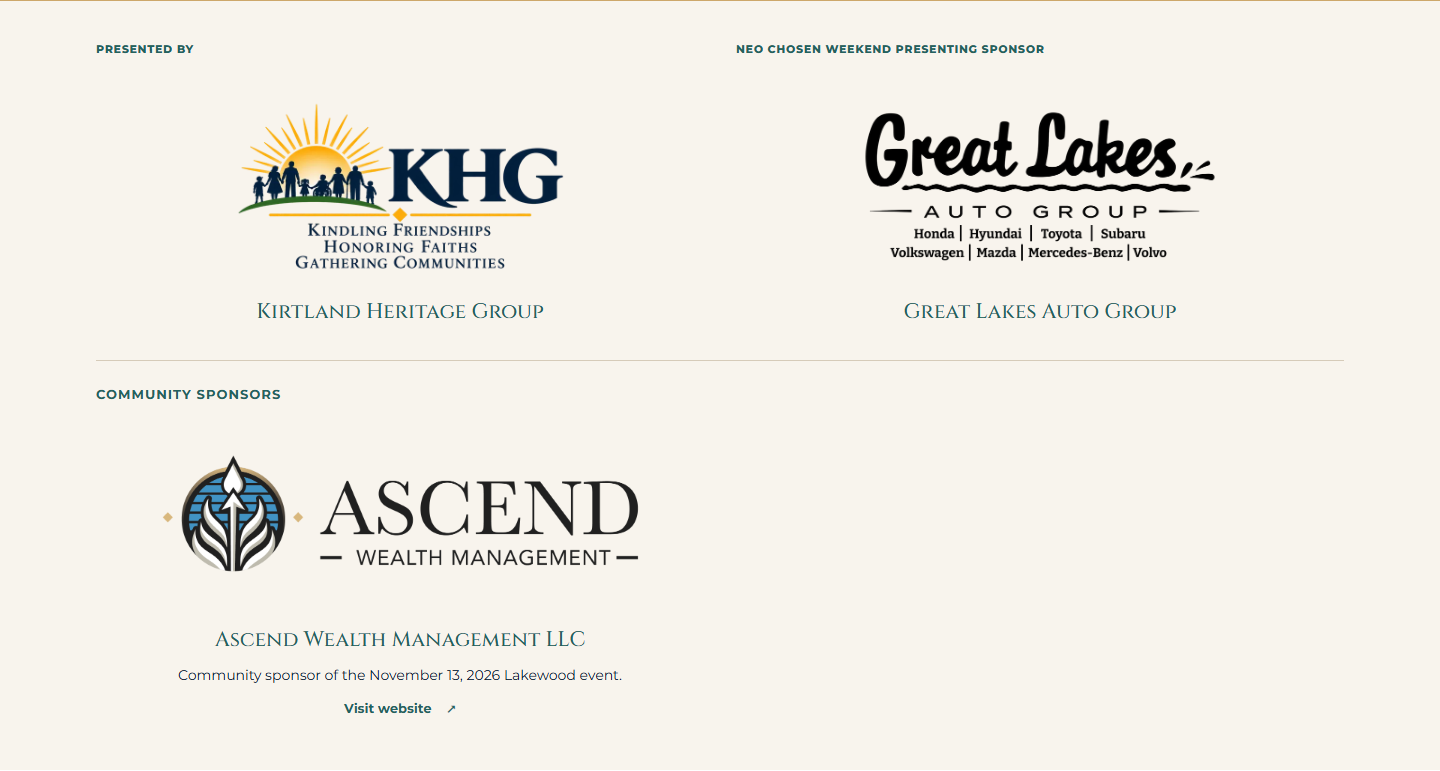
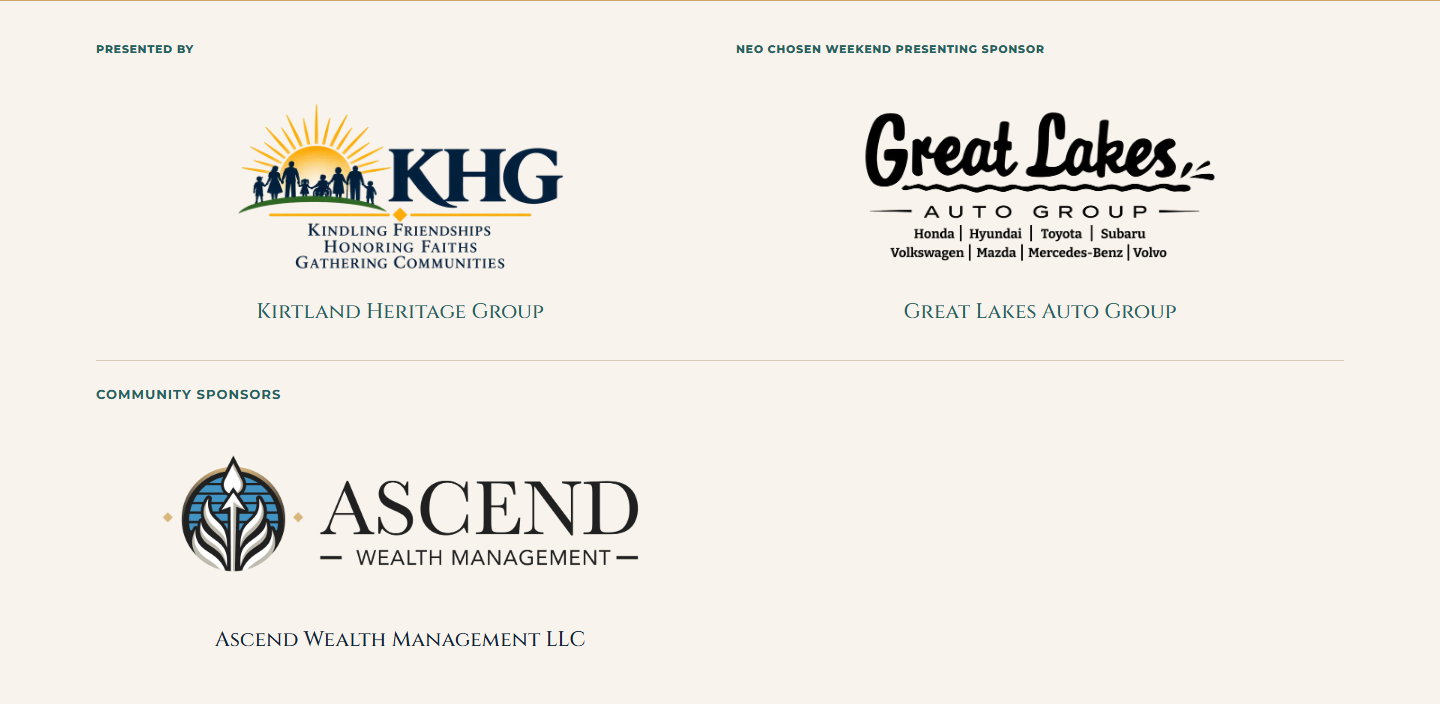
Simplify Ascend recognition and match homepage sponsor styling

diff --git a/homepage.css b/homepage.css
@@ -118,9 +118,6 @@
 .home-sponsor-tier--community .home-sponsor-meta small { color:#dbe2ef; }
 .home-sponsor-tier--community .home-sponsor-art { width:100%; background: #fff; height: 78px; }
 .home-sponsor-tier--community .neo-sponsor-art--dark { background: var(--color-brand-background); }
-.home-sponsor-tier--community [data-sponsor="ascend-wealth-management"] { background:var(--color-surface-light); color:var(--color-text-inverse); }
-.home-sponsor-tier--community [data-sponsor="ascend-wealth-management"] .home-sponsor-art { background:transparent; padding:0; }
-.home-sponsor-tier--community [data-sponsor="ascend-wealth-management"] .home-sponsor-meta small { color:#45505f; }
 .home-sponsor-tier--program-advertiser { grid-column:1/-1; background:transparent; padding:12px 0 0; color:var(--color-text-primary); }
 .home-sponsor-tier--program-advertiser h3 { color:var(--color-brand-gold); }
 .home-sponsor-tier--program-advertiser .home-sponsor-list { grid-template-columns:repeat(4,minmax(0,1fr)); gap:16px; }
